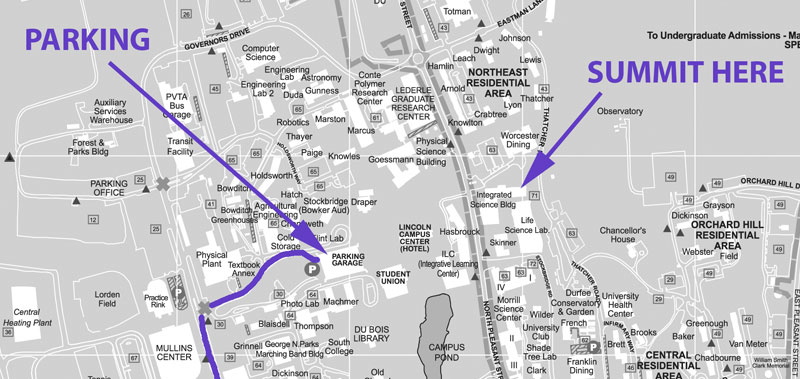
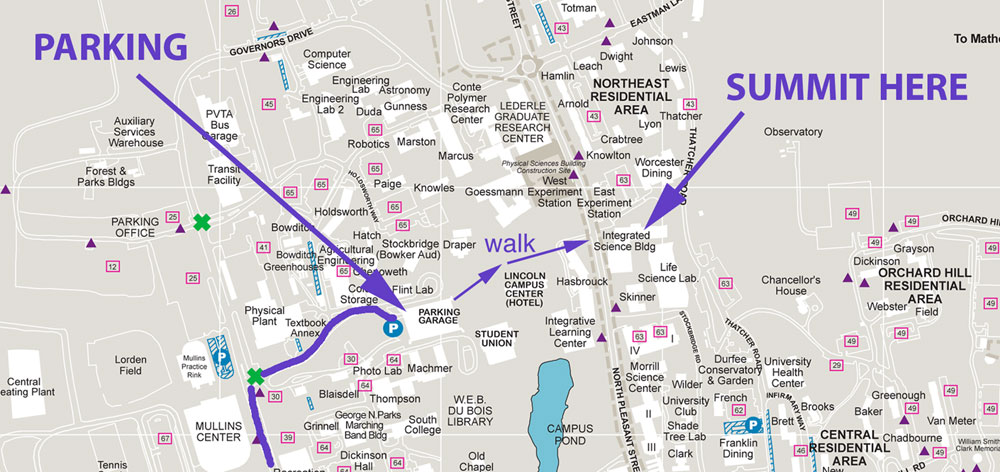
tweak location info

diff --git a/index.html b/index.html
@@ -114,15 +114,17 @@
 
   <div class="large-12 columns sessions-section">
     <a class="anchor-link" name="location"></a>
-
-    <!--THIS IS WHERE SESSIONS INFO GOE, SEE 2017-->
-
-    <h2 class="section-header">location.</h2>
-    <div class="image-container">
-      <img src="images/campus-map.jpg">
-      <a href="https://goo.gl/maps/99enxmQRPeE2"><div class="banner-text">Campus Center Parking Garage</div></a>
-      <p>The most convenient parking is the Campus Center Parking Garage at a cost of $1.75/hr.
-        Other options can be found <a href="https://www.umass.edu/transportation/where-park">here</a>. </p>
+    <div class="location">
+      <h2 class="section-header">location.</h2>
+      <div class="image-container">
+        <img src="images/campus-map.jpg">
+        <p><a href="/images/campus-map-large.jpg">See large map image</a></p>
+        <h3>Parking</h3>
+        <p>The most convenient parking is the <a href="https://goo.gl/maps/99enxmQRPeE2">Campus Center Parking Garage</a> at a cost of $1.75/hr.
+          Other options can be found <a href="https://www.umass.edu/transportation/where-park">here</a>. </p>
+        <h3>Hotels</h3>
+        <p>There are many hotels in the area close by to UMass, including <a href="http://www.hotelsone.com/amherst-hotels-us/hotel-umass.html">Hotel UMass</a> very near the ISB building.</p>
+      </div>
     </div>
 
     <a class="anchor-link" name="sessions"></a>

diff --git a/css/styles.css b/css/styles.css
@@ -250,6 +250,18 @@ footer {
     }
 }
 
+.location {
+    color: #500092;
+    font-size: 1.2rem;
+}
+.location a {
+    color: #FFFFFF;
+    text-transform: uppercase;
+    display: inline-block;
+    background-color: #500092;
+    padding: 0px 5px 0px 5px;
+}
+
 /* #sessions is the div that sessions are inside of */
 
 /*
